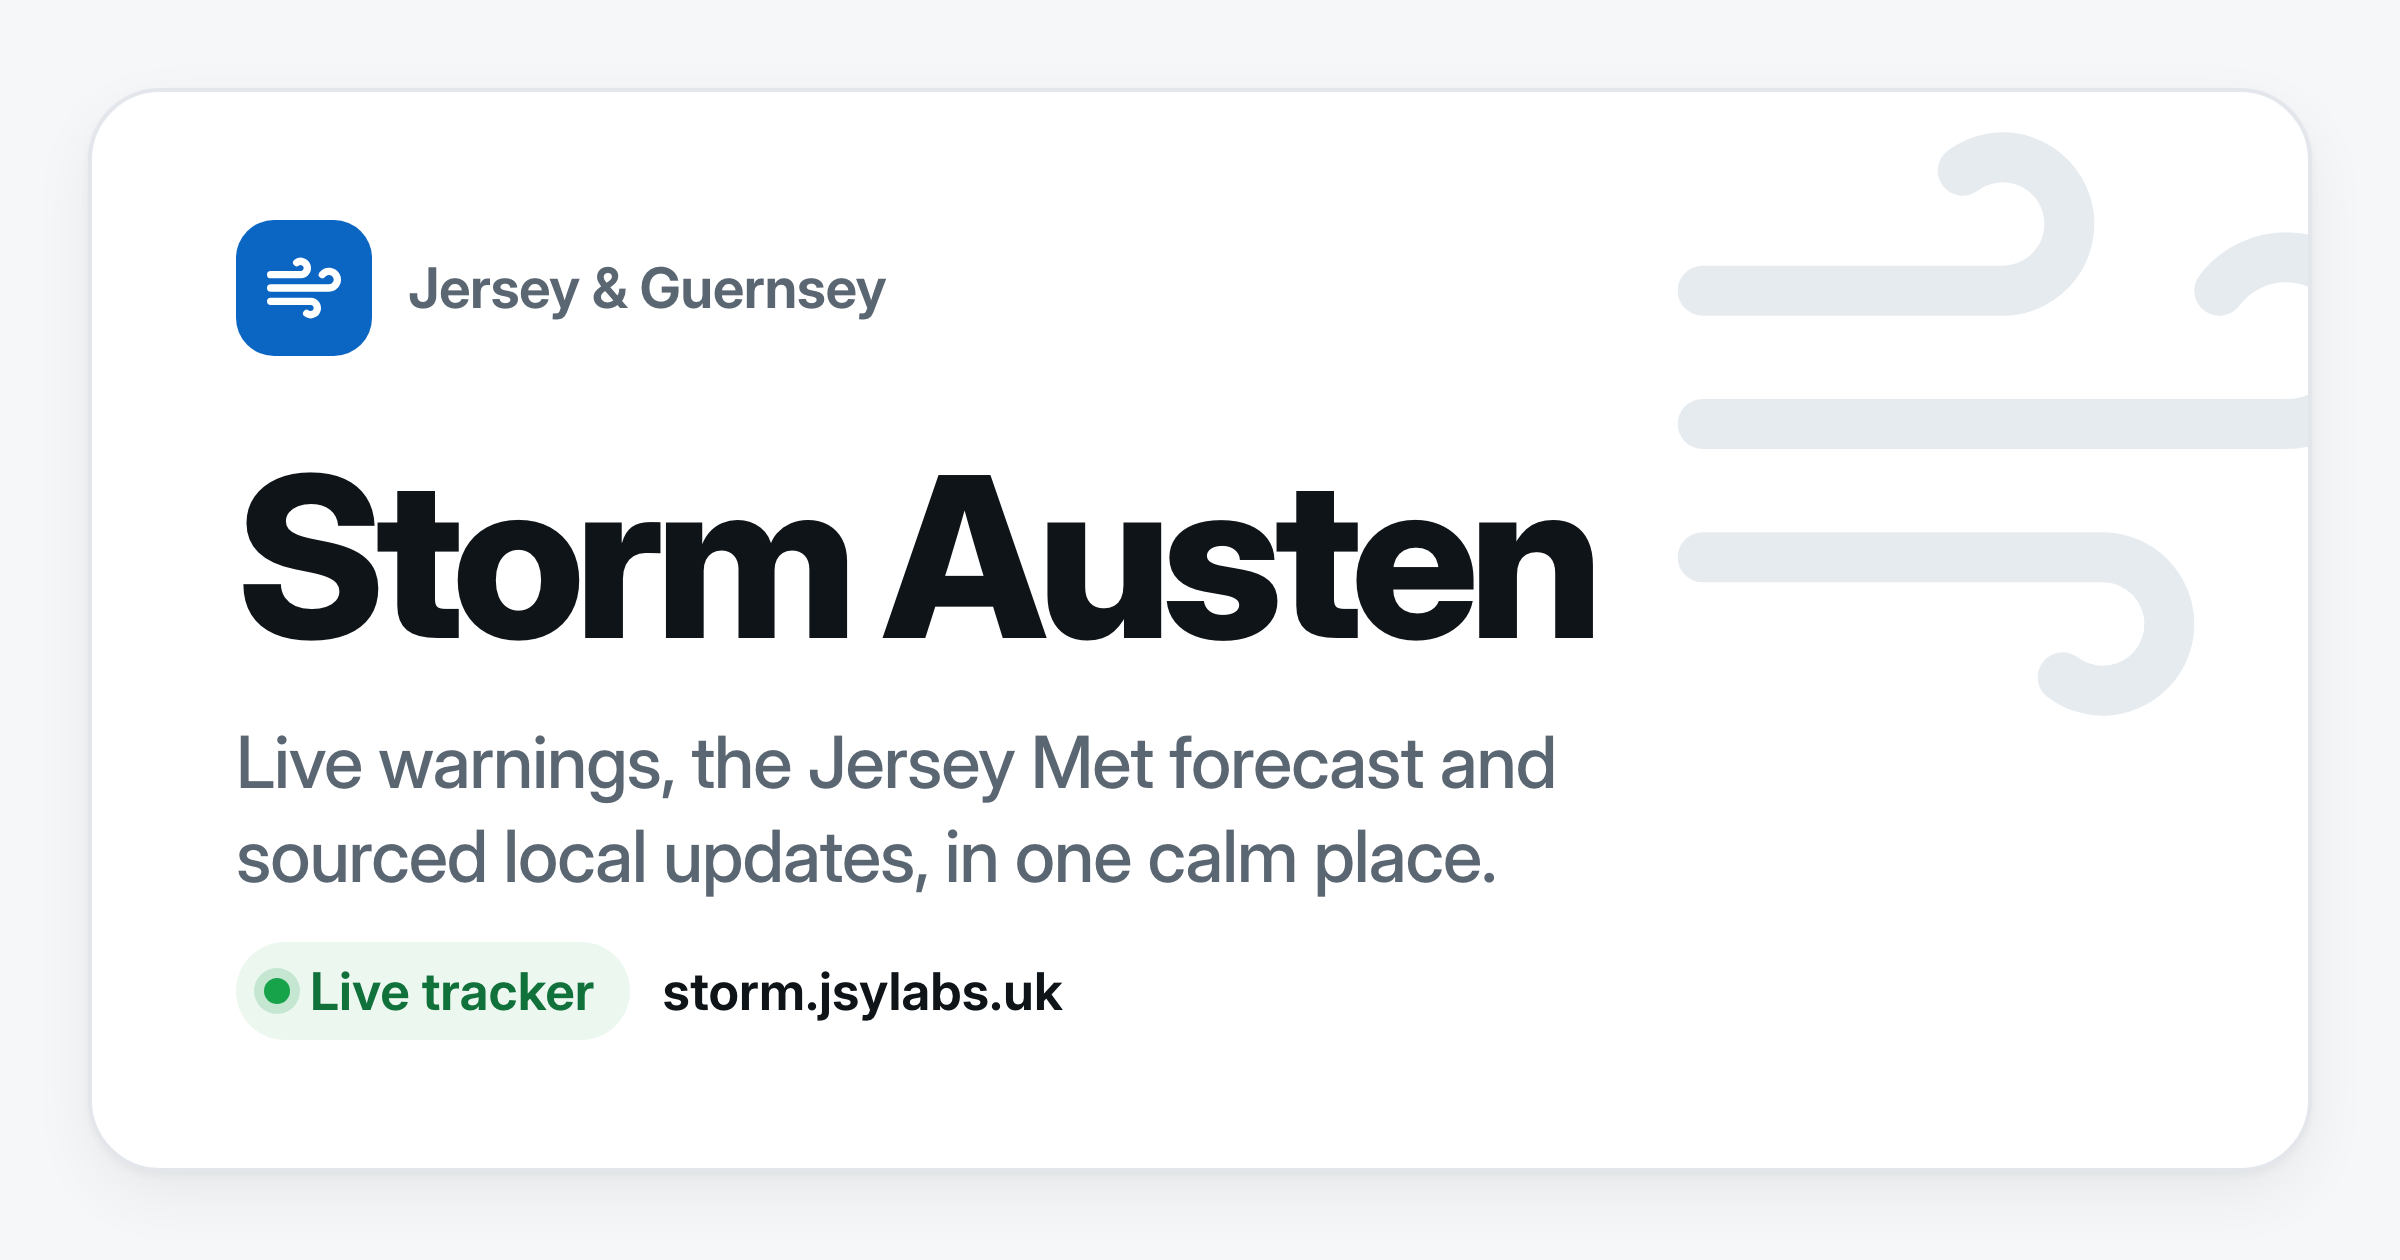
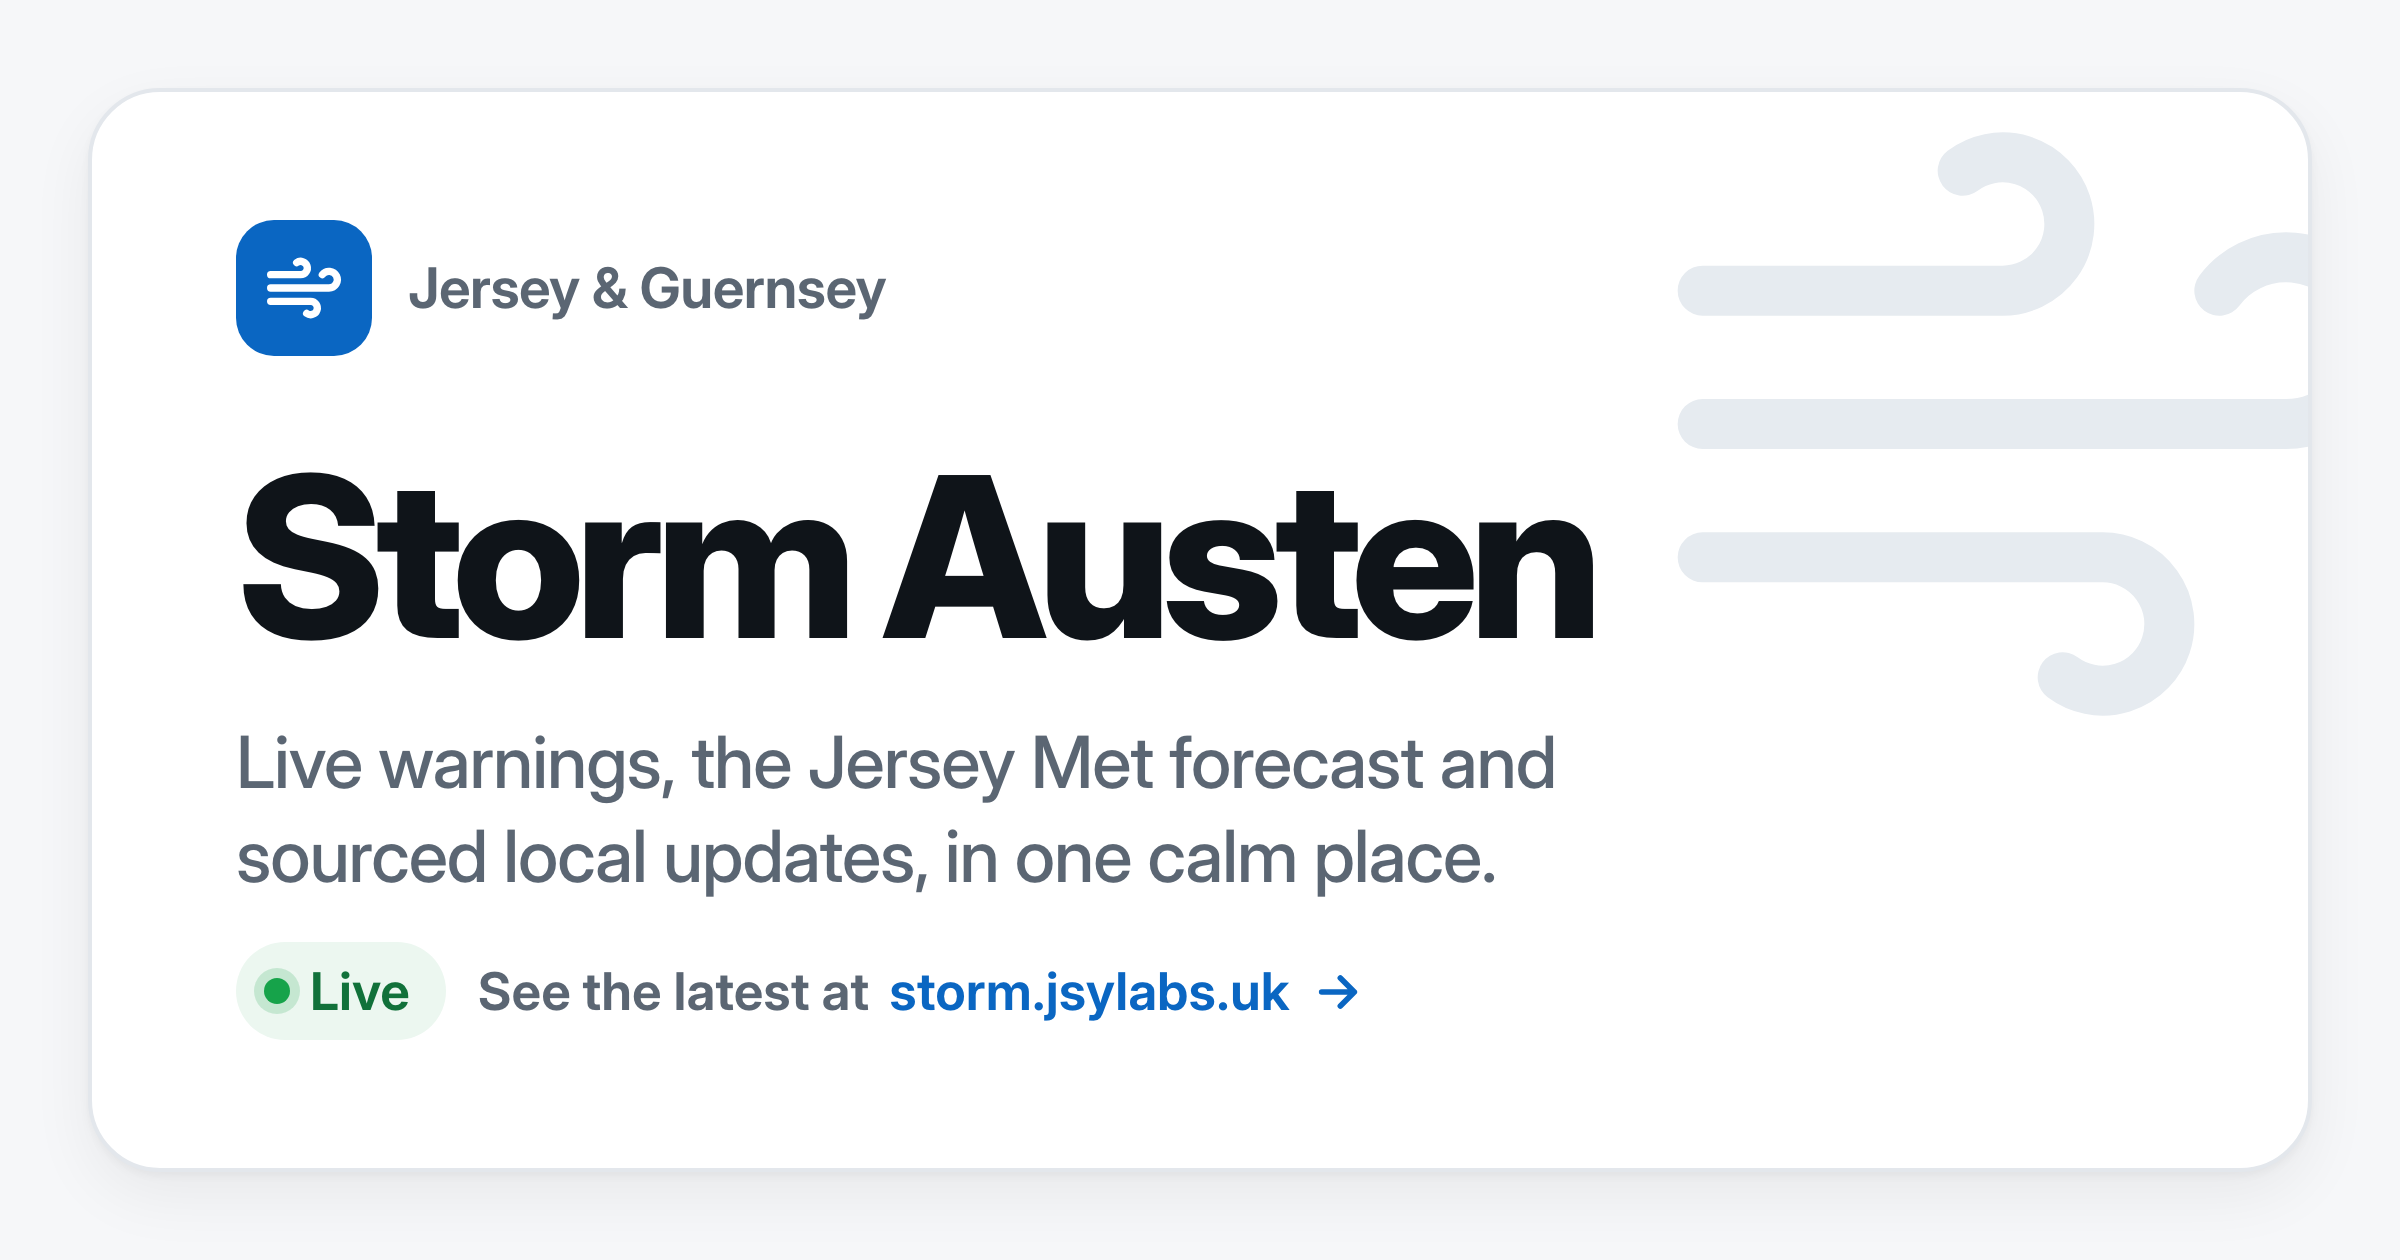
Social card: add a gentle call to action
The card ended on a bare URL. It now reads "See the latest at
storm.jsylabs.uk" with a drawn arrow, and the tag beside it is just
"Live". Still 2400x1260 (2x of 1200x630, same 1.91:1 ratio), which every
major platform accepts and which stays sharp on high-density screens.

Changed region(s): [[0.1562, 0.7738, 0.5625, 0.8048]]

diff --git a/tools/og.html b/tools/og.html
@@ -26,7 +26,9 @@
   .foot{position:relative;margin-top:auto;display:flex;align-items:center;gap:16px;font-size:26px;font-weight:650;color:var(--slate)}
   .live{display:inline-flex;align-items:center;gap:10px;padding:9px 18px 9px 14px;border-radius:999px;background:#ecf7f0;color:#11713a}
   .live i{width:13px;height:13px;border-radius:50%;background:var(--green);box-shadow:0 0 0 5px rgba(22,163,74,.18)}
-  .url{color:var(--ink)}
+  .cta{display:inline-flex;align-items:center;gap:10px;color:var(--slate)}
+  .cta b{color:var(--blue);font-weight:650}
+  .cta svg{width:28px;height:28px;color:var(--blue);stroke-width:2.4}
   svg{fill:none;stroke:currentColor;stroke-linecap:round;stroke-linejoin:round}
 </style>
 </head>
@@ -39,7 +41,7 @@
     </div>
     <h1>Storm Austen</h1>
     <p>Live warnings, the Jersey Met forecast and sourced local updates, in one calm place.</p>
-    <div class="foot"><span class="live"><i></i>Live tracker</span><span class="url">storm.jsylabs.uk</span></div>
+    <div class="foot"><span class="live"><i></i>Live</span><span class="cta">See the latest at <b>storm.jsylabs.uk</b><svg viewBox="0 0 24 24" aria-hidden="true"><path d="M5 12h14M13 6l6 6-6 6"/></svg></span></div>
   </div>
 </body>
 </html>
